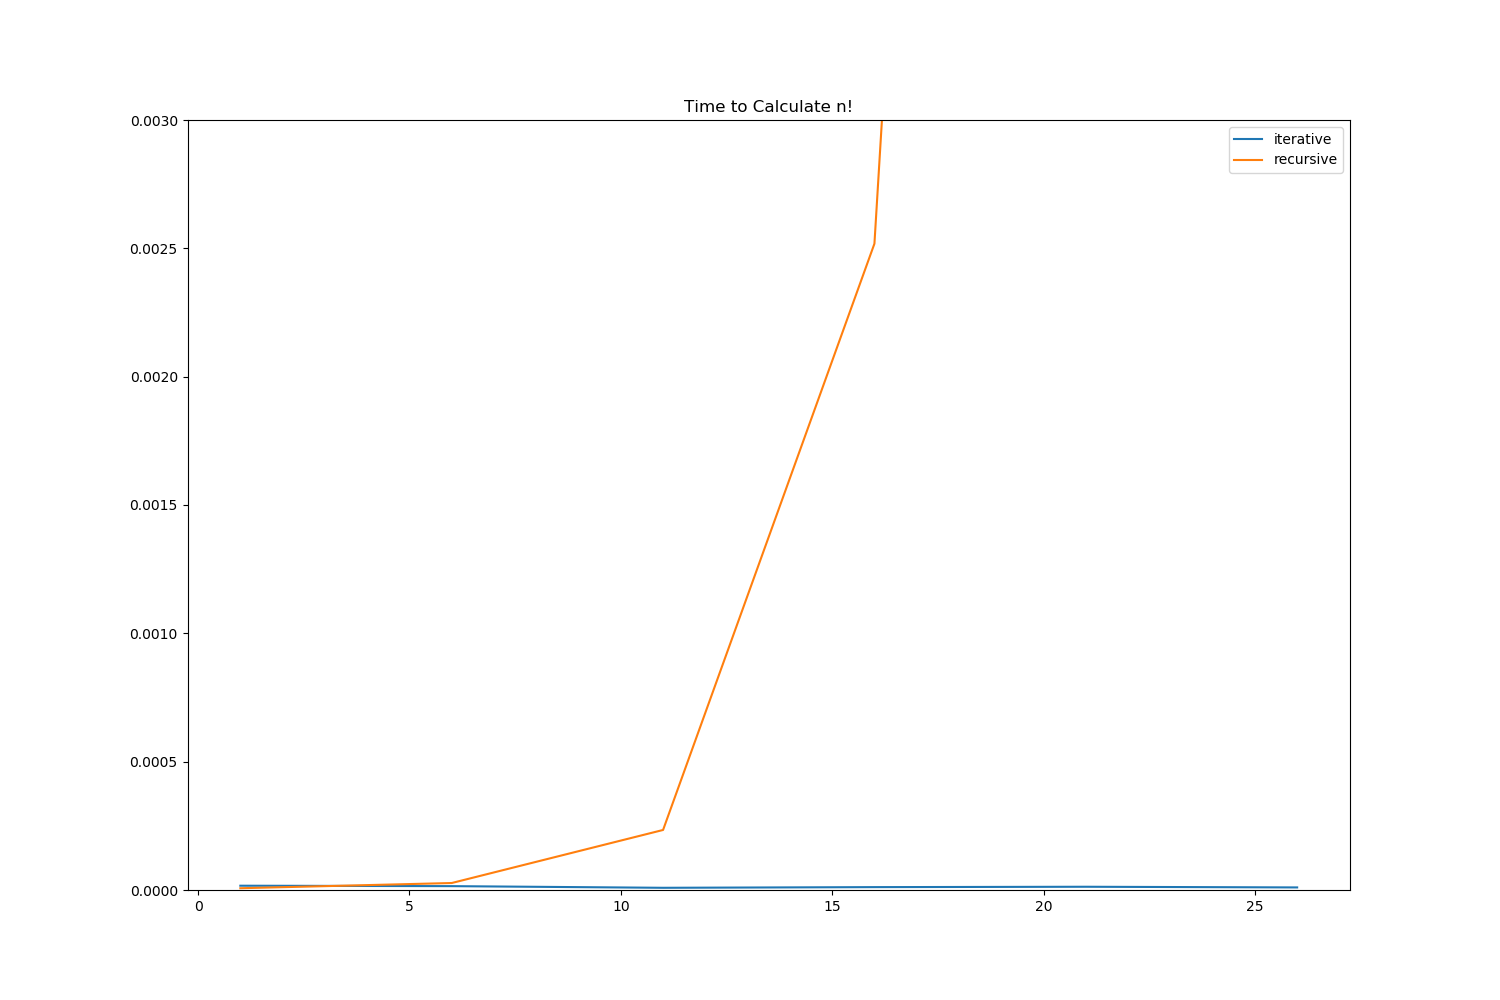
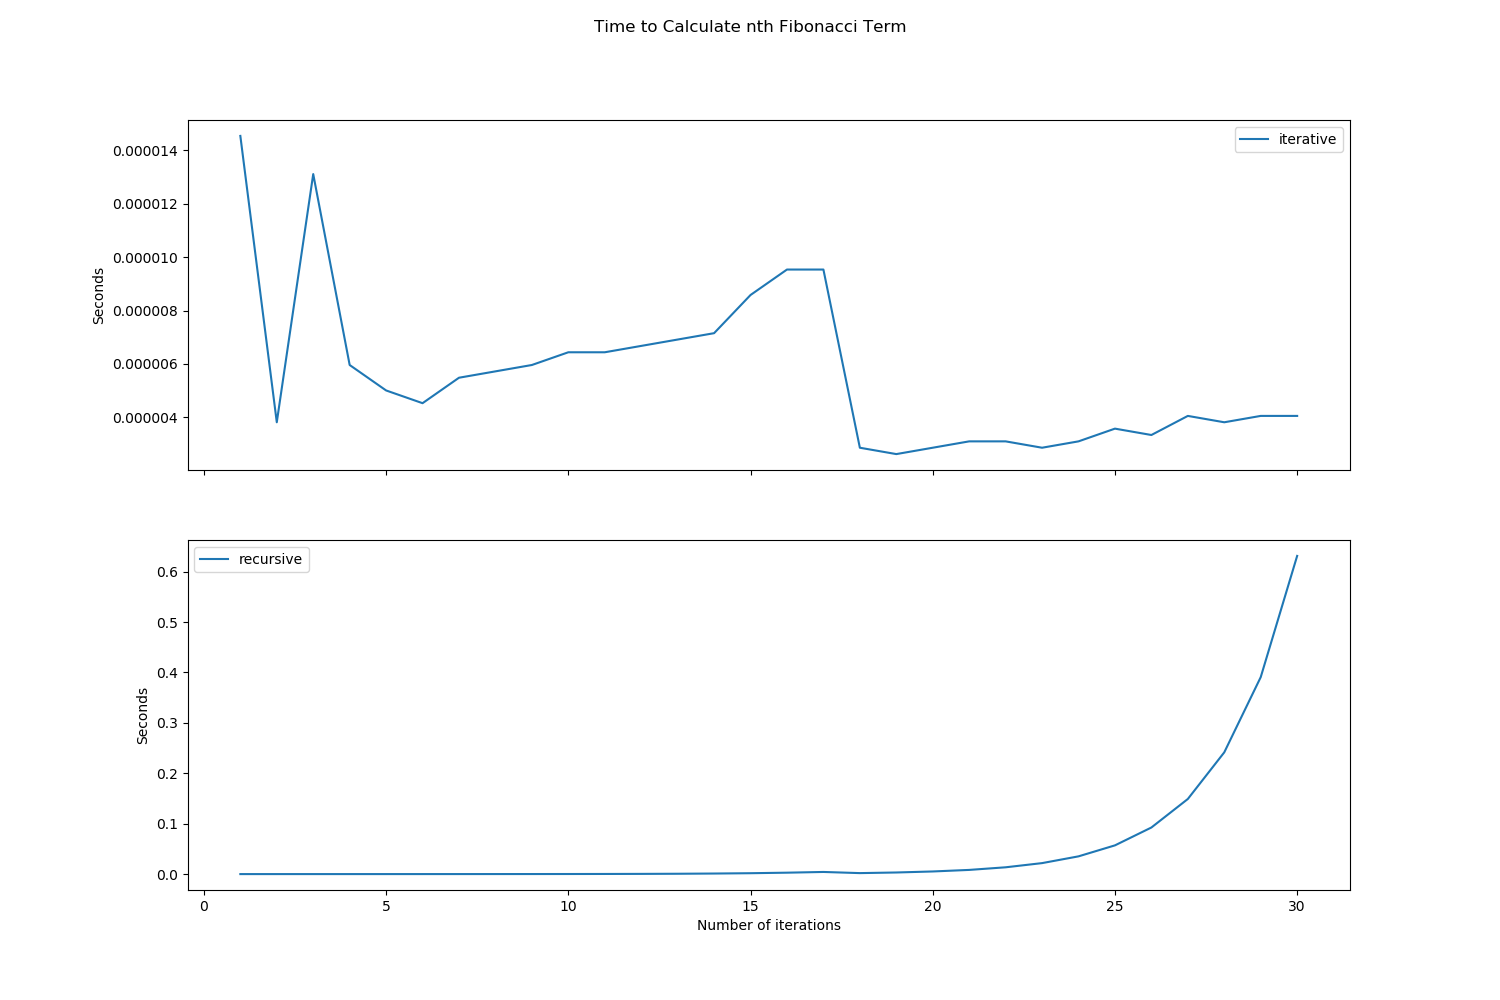
last commit with final edits and cleanup

diff --git a/src/algorithms_working.py b/src/algorithms_working.py
@@ -1,3 +1,9 @@
+# This script calculates the times need for various algorithms used
+# for finding factorials and Fibonocci Series terms. It makes use
+# of a module called algorithms_functions, which contains defined functions
+# used in the script
+
+
 import algorithms_functions #custom module with functions for algorithms
 import matplotlib.pyplot as plt
 
@@ -22,11 +28,14 @@ plt.legend()
 plt.title("Time to Calculate n!")
 plt.savefig("factorial_times.png", transparent=False)
 
+
+
+
 # FIBONACCI
 # collect the calculation times for two Fibonacci algorithm types
 algorithm_types = ['iterative', 'recursive']
 time_dict = {k: [] for k in algorithm_types}
-n_points = list(range(1, 31, 5))
+n_points = list(range(1, 31, 1))
 
 start = -1
 while (start + 1 != 1) and (start + 1 != 2):
@@ -38,11 +47,13 @@ for n in n_points:
         time_dict[algorithm_type].append(time_elapsed)
 
 # plot calculation time vs n for each factorial algorithm type
-plt.figure(figsize=(15, 10))
+f, axes = plt.subplots(2, sharex=True, figsize=(15,10))
 for k, v in time_dict.items():
-    plt.plot(n_points, v, label=k)
+    axis_index = algorithm_types.index(k)
+    axes[axis_index].plot(n_points, v, label=k)
+    axes[axis_index].set_ylabel('Seconds')
+    axes[axis_index].legend()
 
-plt.ylim(ymin=0, ymax=0.003)
-plt.legend()
-plt.title("Time to Calculate n!")
+axes[1].set_xlabel('Number of iterations')
+f.suptitle('Time to Calculate nth Fibonacci Term')
 plt.savefig("fibonacci_times.png", transparent=False)

diff --git a/src/algorithms_functions.py b/src/algorithms_functions.py
@@ -30,7 +30,6 @@ def factorial_compare(n, algorithm_type):
         math.factorial(n)
     return time.time() - start_time
 
-
 # original Fibonacci definition historicallly starts with 1, 1, but more modern usage starts with 0, 1
 def fibonacci_start(n, start):
     modern_start = [0, 1]
@@ -45,13 +44,13 @@ def iterative_fibonacci(n, start):
     if n < 3:
         return fibonacci_start(n, start)
     else:
-        last = 1
-        previous = start
+        last_term = 1
+        previous_term = start
         for i in range(3, n+1):
-            next = last + previous
-            previous = last
-            last = next
-        return next
+            next_term = last_term + previous_term
+            previous_term = last_term
+            last_term = next_term
+        return last_term
 
 # function for calculating nth Fibonacci term recursively
 def recursive_fibonacci(n, start):
